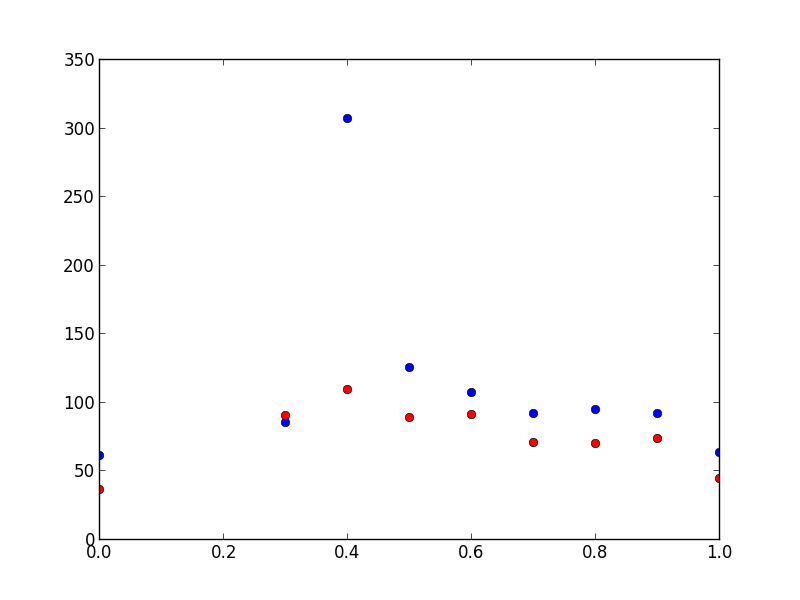
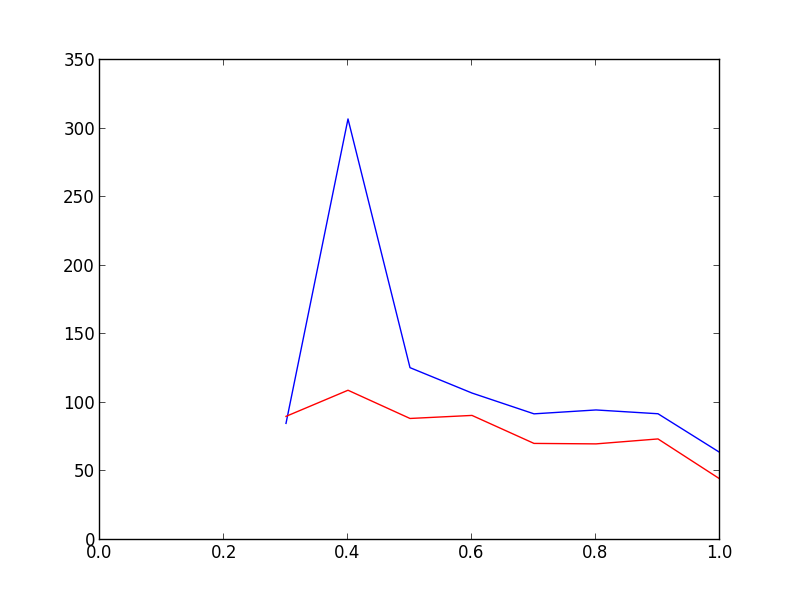
Progress... added a few more images.

diff --git a/paper/main.tex b/paper/main.tex
@@ -8,6 +8,7 @@
 \usepackage{url}
 \usepackage{amsmath}
 \usepackage{mathrsfs}
+\usepackage{tikz}
 
 \title{
 The Small World Network Effect in Open Source Project Teams
@@ -37,16 +38,66 @@ A `small world' network is a social network characterized by high clustering of 
 
 \section{Methods}
 
-We calcluate the \textit{Clustering Coefficient} (or $CC$) as a measure of the proportion of closed triangles in a graph\cite{newman2003structure}:
-\[CC = 3 \times \frac{\text{number of triangles}}
-                    {\text{number of connected triples}}\]
-
-Also, measuring \textit{Path Length} ($PL$) allows us to gauge how far removed developers in the graph are from one another. For example 
-
 \subsection{Collection and Storage}
+Data was collected using the freely available FLOSSmole\cite{floss2006} data sets of free and open source projects. The data collection used was collected from the popular open source project site FreeCode\footnote{http://freecode.com/}, and contains data up to September, 2013.
 
 \subsection{Analysis}
+Results were analyzed using the Python graph processing packaged NetworkX\cite{hagberg-2008-exploring}.
 
+We calcluate the \textit{Clustering Coefficient} (or $C^\delta$) as a measure of the proportion of closed triangles in a graph\cite{newman2003structure}:
+\[C^\delta = 3 \times \frac{\text{number of triangles}}
+                    {\text{number of connected triples}}\]
+
+Also, measuring \textit{Path Length} ($L$) allows us to gauge how far removed developers in the graph are from one another. For example 
+
+\begin{tikzpicture}
+  [scale=.5,auto=left,every node/.style={circle,fill=gray!20}]
+  \node (n1) at (15,8) {1};
+  \node (n2) at (12,6)  {2};
+  \node (n3) at (9,5)  {3};
+  \node (n4) at (6,5)  {4};
+  
+  \draw ({n1}) -- ({n2});
+  \draw ({n2}) -- ({n3});
+  \draw ({n3}) -- ({n4});
+\end{tikzpicture}
+
+\begin{tikzpicture}
+  [scale=.5,auto=left,every node/.style={circle,fill=gray!20}]
+  \node (n1) at (15,8) {1};
+  \node (n2) at (12,5)  {2};
+  \node (n3) at (9,5)  {3};
+  \node (n4) at (11,8)  {4};
+  
+  \draw ({n1}) -- ({n2});
+  \draw ({n2}) -- ({n3});
+  \draw ({n3}) -- ({n4});
+  \draw ({n1}) -- ({n4});
+  \draw ({n1}) -- ({n3});
+  \draw ({n2}) -- ({n4});
+\end{tikzpicture}
+
+\begin{tikzpicture}
+  [scale=.5,auto=left,every node/.style={circle,fill=gray!20}]
+  \node (n1) at (15,7) {1};
+  \node (n2) at (12,5)  {2};
+  \node (n3) at (8,7)  {3};
+  \node (n4) at (11,8)  {4};
+  
+  \draw ({n1}) -- ({n2});
+  \draw ({n3}) -- ({n4});
+  \draw ({n1}) -- ({n4});
+  \draw ({n2}) -- ({n4});
+\end{tikzpicture}
+
+\textit{Small-World-ness}
+
+\[\gamma^{\Delta}_g = \frac{C^{\Delta}_g }{C^{\Delta}_{rand} } \]
+
+\[\lambda_g = \frac{L_g }{L_{rand} } \]
+
+\[S^\Delta = \frac{\gamma^{\Delta}_g }{\lambda_g} \]
+ 
 \section{Results}
 
 \subsection{Quantitative}
@@ -54,23 +105,23 @@ Also, measuring \textit{Path Length} ($PL$) allows us to gauge how far removed d
 \input{tables/subgraphs_summary}
 
 \begin{center}
-\includegraphics[width=0.5\textwidth]{images/github-popular.png}
+\includegraphics[width=0.5\textwidth]{images/freecode-popular.png}
 \end{center}
 
 \begin{center}
-\includegraphics[width=0.5\textwidth]{images/github-unpopular.png}
+\includegraphics[width=0.5\textwidth]{images/freecode-unpopular.png}
 \end{center}
 
 \begin{center}
-\includegraphics[width=0.5\textwidth]{images/github-q-histo.png}
+\includegraphics[width=0.5\textwidth]{images/freecode-q-histo.png}
 \end{center}
 
 \begin{center}
-\includegraphics[width=0.5\textwidth]{images/github-smallworld-histo.png}
+\includegraphics[width=0.5\textwidth]{images/freecode-smallworld-histo.png}
 \end{center}
 
 \begin{center}
-\includegraphics[width=0.5\textwidth]{images/github-graph.png}
+\includegraphics[width=0.5\textwidth]{images/freecode-graph.png}
 \end{center}
 
 \subsection{Qualitative}

diff --git a/code/analyze_graph.py b/code/analyze_graph.py
@@ -32,11 +32,7 @@ def read_stats():
     for row in csvreader:
         project_id = row['project_id'].strip()
         popularity_score = row['popularity_score'].strip()
-        vitality_score = row['vitality_score'].strip()
-        subscriptions = row['subscriptions'].strip()
-        rank = row['popularity_rank'].strip()
 
-        score = 0
         try:
             score = float(popularity_score)
         except ValueError, e:
@@ -200,10 +196,10 @@ def graph(name, contributors, popularity):
                 table.create_table("Summary", "Summary", N,
                                    {
                                        "Q": q,
-                                       "CC": cc,
-                                       "PL": pl,
+                                       "$C^\Delta$": cc,
+                                       "L": pl,
                                        "Popularity": popularity_score,
-                                       "Small World": [x for x in small_worldness if x is not None],
+                                       "$S^\Delta$": [x for x in small_worldness if x is not None],
                                        "Nodes": subgraph_node_number,
                                        "Edges": subgraph_edge_number
                                    }))
@@ -240,7 +236,6 @@ def highest_performing(filename, bins, values):
         plt.hist(data, len(bins), color="0.75")
         F = plt.gcf()
         F.savefig("../paper/images/"+filename+"-"+name+".png")
-        plt.show()
         plt.close(fig)
 
 def create_graph(filename, x, y):
@@ -248,8 +243,8 @@ def create_graph(filename, x, y):
     median = [np.median(j) for j in y]
 
     fig = plt.figure()
-    plt.plot(x,avg,'bo')
-    plt.plot(x,median,'ro')
+    plt.plot(x,avg,'b-')
+    plt.plot(x,median,'r-')
     F = plt.gcf()
     F.savefig("../paper/images/"+filename+"-graph.png")
     plt.close(fig)

diff --git a/paper/tables/subgraphs_summary.tex b/paper/tables/subgraphs_summary.tex
@@ -1,15 +1,15 @@
 \begin{table}[htbp]\centering
 \caption{\label{Summary}
 \textbf{Statistics} }\begin{tabular} {@{} l r  r  r  r  r  r  @{}} \\ \hline
-\textbf{Statistic} & \textbf{Mean} & \textbf{Median} & \textbf{Max} & \textbf{Min} & \textbf{Std} \\ 
+\textbf{Statistic} & \textbf{Mean} & \textbf{Med} & \textbf{Max} & \textbf{Min} & \textbf{Std} \\ 
 \hline
-CC & 0.51 & 0.825 & 1.0 & 0.0 & 0.496 \\ 
-Popularity & 63.776 & 41.189 & 3978.95 & 5.12 & 88.807 \\ 
-Q & 0.504 & 0.615 & 1.0 & 0.0 & 0.494 \\ 
-Edges & 20.641 & 3.0 & 23441.0 & 1.0 & 367.166 \\ 
-Small World & 1.469 & 1.52 & 4.433 & 0.0 & 0.534 \\ 
-Nodes & 3.88 & 3.0 & 221.0 & 2.0 & 5.858 \\ 
-PL & 1.012 & 1.0 & 2.4 & 1.0 & 0.075 \\ 
+$C^\Delta$ & 0.51 & 0.82 & 1.0 & 0.0 & 0.5 \\ 
+Popularity & 63.78 & 41.19 & 3978.95 & 5.12 & 88.81 \\ 
+Q & 0.5 & 0.62 & 1.0 & 0.0 & 0.49 \\ 
+Edges & 20.64 & 3.0 & 23441.0 & 1.0 & 367.17 \\ 
+Small World & 1.46 & 1.52 & 5.11 & 0.0 & 0.52 \\ 
+Nodes & 3.88 & 3.0 & 221.0 & 2.0 & 5.86 \\ 
+PL & 1.01 & 1.0 & 2.4 & 1.0 & 0.07 \\ 
 \hline
 \multicolumn{6}{@{}l}{
 N = 7172}

diff --git a/code/table.py b/code/table.py
@@ -1,12 +1,14 @@
 import numpy as np
 from collections import OrderedDict
 
+sigdigits = 2
+
 summary_functions = OrderedDict(
-    [("Mean", lambda x : round(np.mean(x),3)),
-     ("Median", lambda x : round(np.median(x),3)),
-     ("Max", lambda x : round(np.max(x),3)),
-     ("Min", lambda x : round(np.min(x),3)),
-     ("Std", lambda x : round(np.std(x),3))]
+    [("Mean", lambda x : round(np.mean(x),sigdigits)),
+     ("Med", lambda x : round(np.median(x),sigdigits)),
+     ("Max", lambda x : round(np.max(x),sigdigits)),
+     ("Min", lambda x : round(np.min(x),sigdigits)),
+     ("Std", lambda x : round(np.std(x),sigdigits))]
 )
 
 def create_table(title,label,N,stats,functions=summary_functions):
